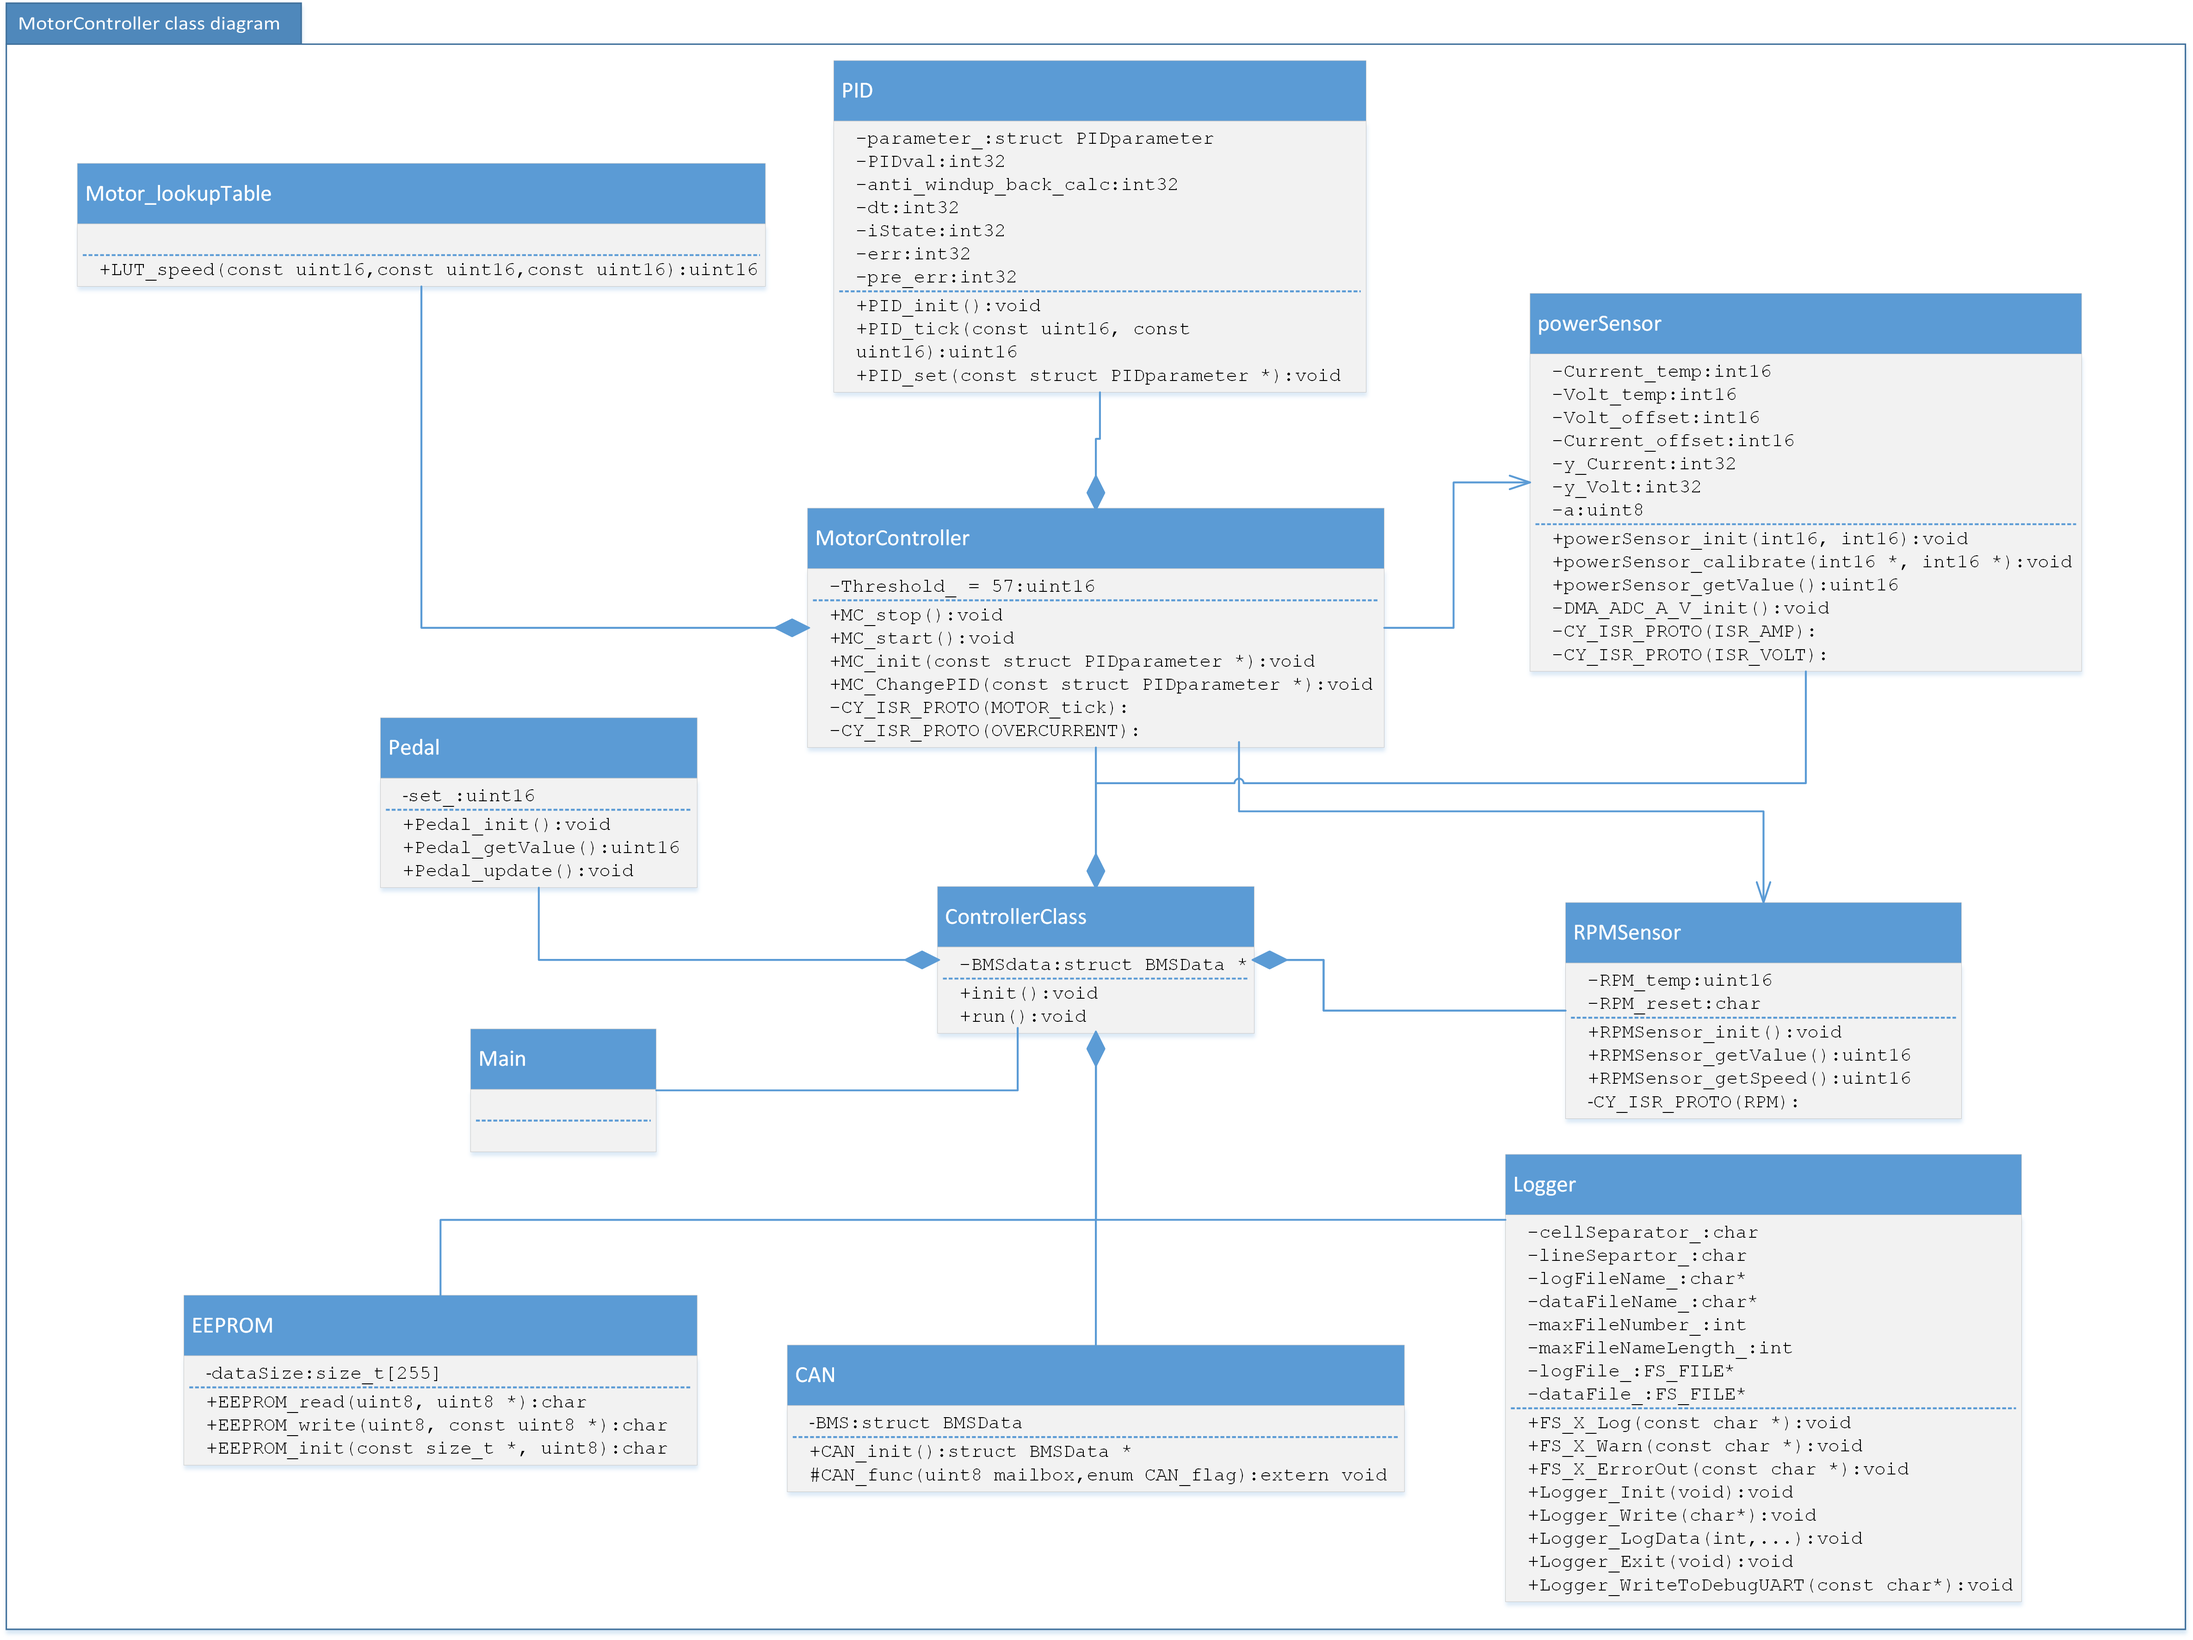
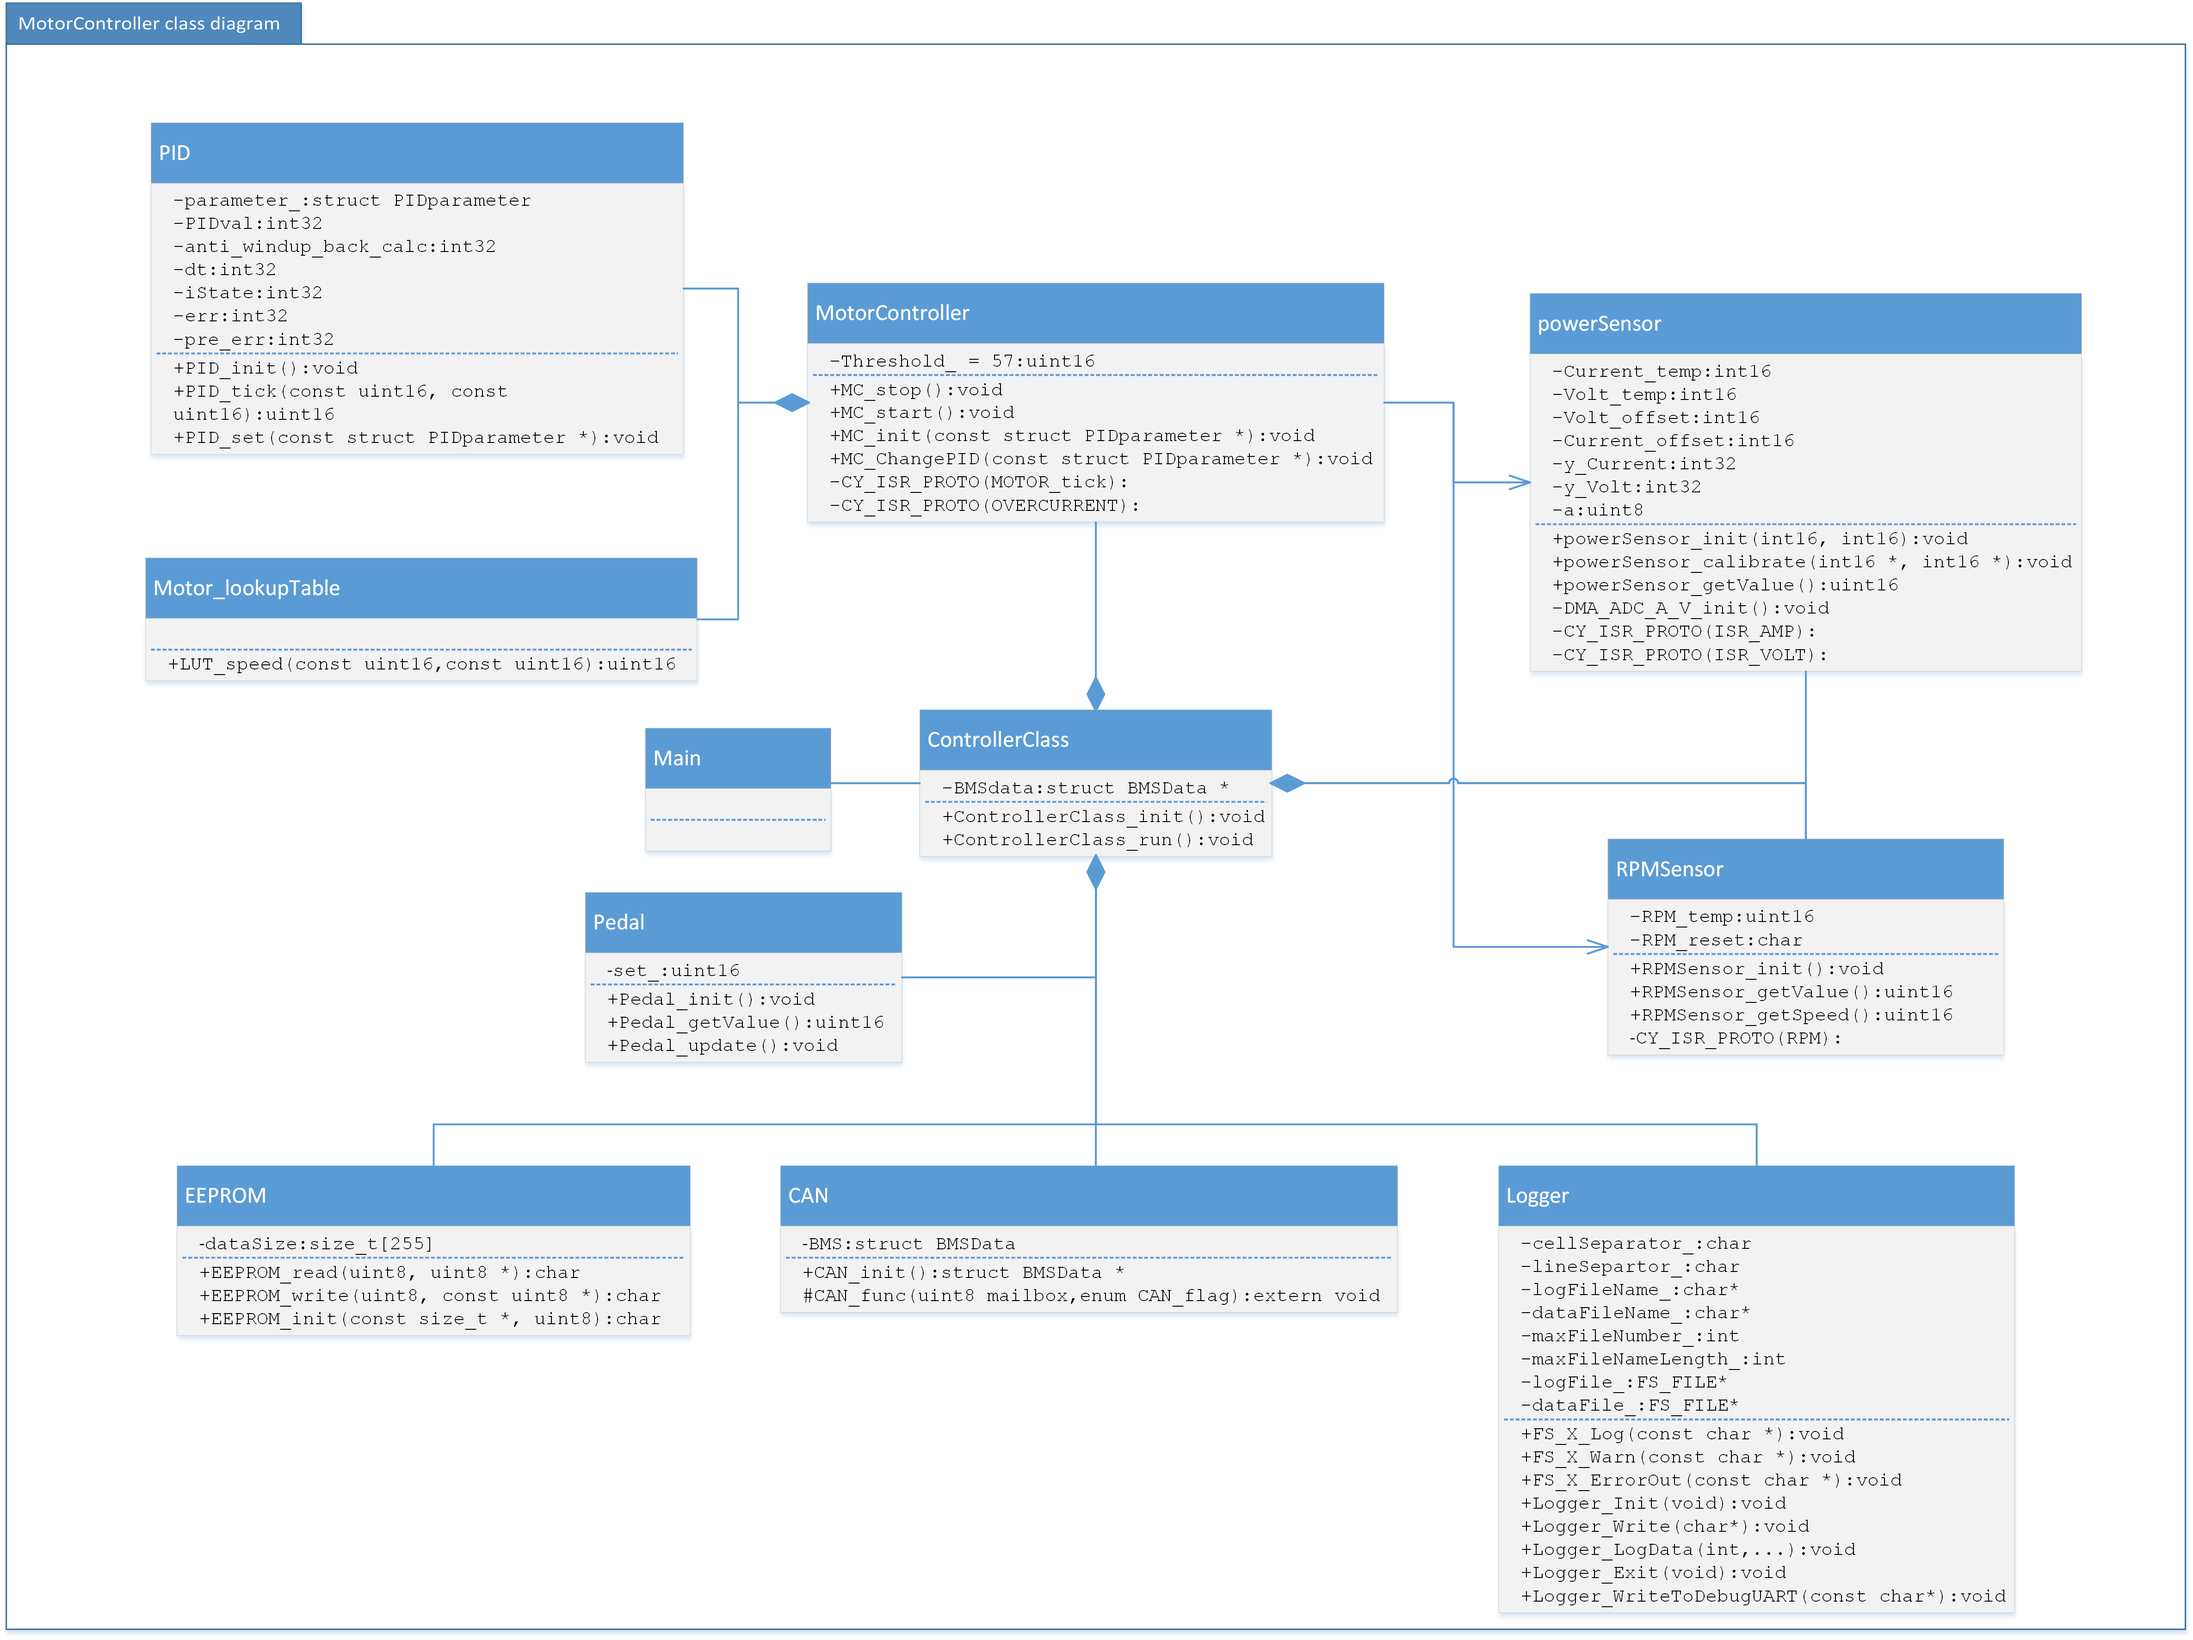
klasse diagram opdateret - MCU

diff --git a/Latex/Documentation_AU2/Software/classDiagram.tex b/Latex/Documentation_AU2/Software/classDiagram.tex
@@ -2,7 +2,7 @@
 \section{Class diagram}
 \label{sec:class_diagram}
 
-\fxnote{Meget af det følgende burde genereres af doxygen - JH}
+%\fxnote{Meget af det følgende burde genereres af doxygen - JH}
 \begin{figure}[H]
 	\centering
 	\includegraphics [width=6in]{Software/Pictures/class-diagram.png}
@@ -16,7 +16,7 @@ MotorController class are controlling the motor and try to get the best efficien
 \subsection{Class description}
 
 This sub section goes through all class in MCU, and give a overview over all methods.
-\fxnote{få opdateret alle diagrammer}
+%\fxnote{få opdateret alle diagrammer}
 \subsubsection{ControllerClass}
 
 \begin{figure}[H]
@@ -32,13 +32,13 @@ This sub section goes through all class in MCU, and give a overview over all met
 		\hline
 		\textbf{methods} & \textbf{Description} \\ \hline
 		
-		init
+		ControllerClass\_init
 		& This method will initialize the entire MCU.
 		\\ & \textbf{Parameter list ()}
 		\\ & \textbf{Return parameter (void)}
 		\\ \hline
 		
-		run
+		ControllerClass\_run
 		& This method checking if there is some new status from the pedal, or have received new information from the BMS, if yes it will log the information. 
 		\\ & \textbf{Parameter list ()}
 		\\ & \textbf{Return parameter (void)}
